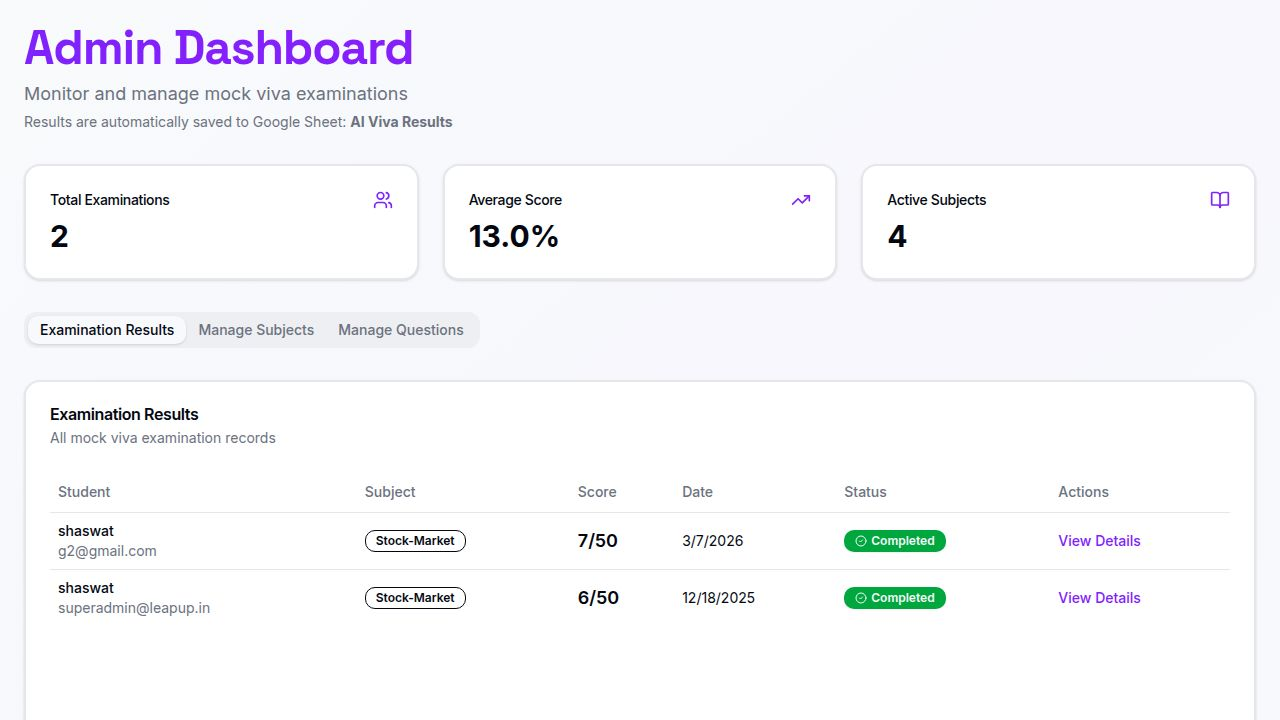
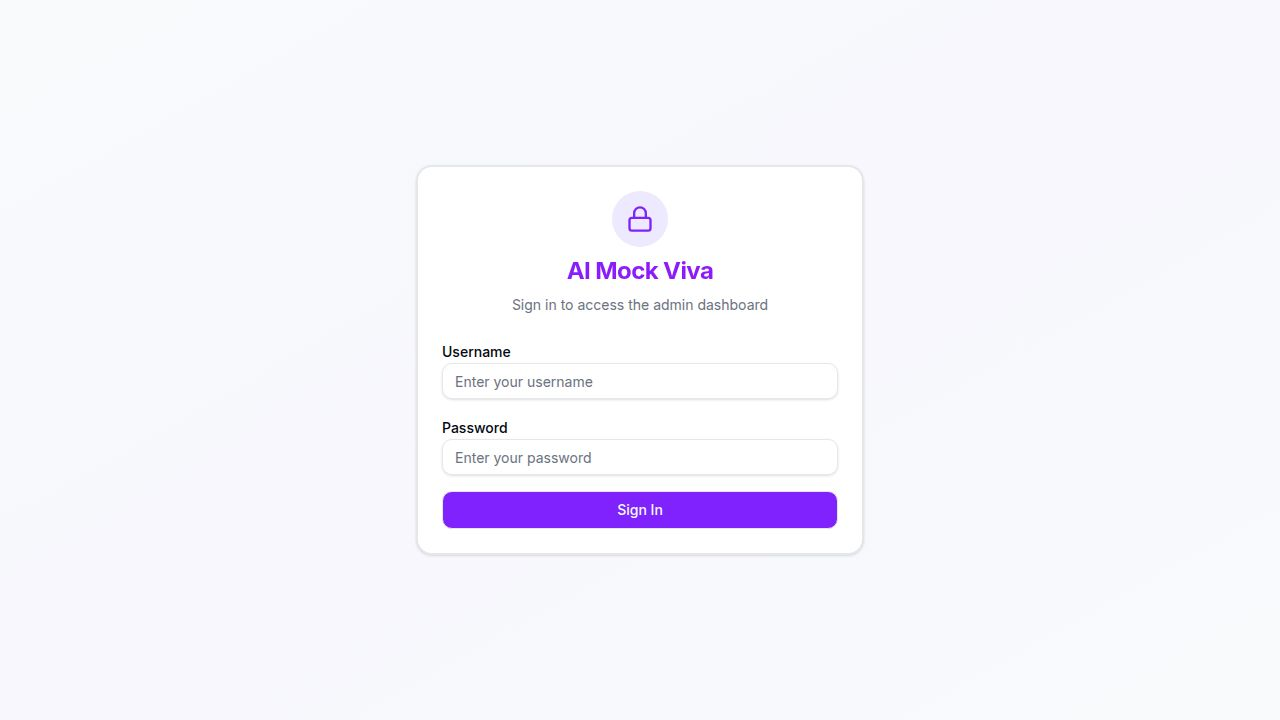
Implement role-based access control for users and administrators
Refactor API endpoints and client-side logic to enforce granular permissions based on user roles, restricting access to subjects and user data.

Replit-Commit-Author: Agent
Replit-Commit-Session-Id: 37b2abbb-5c32-41a0-ae0e-14f6b9f48e0a
Replit-Commit-Checkpoint-Type: full_checkpoint
Replit-Commit-Event-Id: 35af4d70-7967-4167-8101-ff11e4ab3078
Replit-Commit-Screenshot-Url: https://storage.googleapis.com/screenshot-production-us-central1/4ebaabbb-f4e4-4616-a01d-6eb8a4cc59bb/37b2abbb-5c32-41a0-ae0e-14f6b9f48e0a/TShXxQI
Replit-Helium-Checkpoint-Created: true

diff --git a/server/routes.ts b/server/routes.ts
@@ -157,12 +157,15 @@ export async function registerRoutes(
   });
 
   // Get list of available subjects (combines built-in and custom)
+  // Includes createdBy for authenticated users only
   app.get("/api/subjects", async (req, res) => {
     try {
+      const isAuthenticated = !!req.session.userId;
       const builtInSubjects = getAllSubjects().map(s => ({ 
         name: s.name, 
         slug: s.slug,
-        isBuiltIn: true 
+        isBuiltIn: true,
+        ...(isAuthenticated ? { createdBy: null } : {}),
       }));
       
       const customSubjects = await storage.getSubjects();
@@ -170,7 +173,8 @@ export async function registerRoutes(
         id: s.id,
         name: s.name,
         slug: s.slug,
-        isBuiltIn: false
+        isBuiltIn: false,
+        ...(isAuthenticated ? { createdBy: s.createdBy } : {}),
       }));
       
       res.json([...builtInSubjects, ...customFormatted]);
@@ -207,10 +211,13 @@ export async function registerRoutes(
     }
   });
 
-  // Create a new custom subject
-  app.post("/api/admin/subjects", requireAdmin, async (req, res) => {
+  // Create a new custom subject (any authenticated user)
+  app.post("/api/admin/subjects", requireAuth, async (req, res) => {
     try {
-      const validatedData = insertSubjectSchema.parse(req.body);
+      const validatedData = insertSubjectSchema.parse({
+        ...req.body,
+        createdBy: req.session.userId,
+      });
       const subject = await storage.createSubject(validatedData);
       res.json(subject);
     } catch (error: any) {
@@ -222,12 +229,20 @@ export async function registerRoutes(
     }
   });
 
-  // Update a custom subject
-  app.put("/api/admin/subjects/:id", requireAdmin, async (req, res) => {
+  // Update a custom subject (admin: any, user: own only)
+  app.put("/api/admin/subjects/:id", requireAuth, async (req, res) => {
     try {
       const id = parseInt(req.params.id);
       if (isNaN(id)) {
         return res.status(400).json({ error: "Invalid ID" });
+      }
+      const currentUser = await storage.getUser(req.session.userId!);
+      if (currentUser?.role !== "admin") {
+        const existing = await storage.getSubjects();
+        const target = existing.find(s => s.id === id);
+        if (!target || target.createdBy !== req.session.userId) {
+          return res.status(403).json({ error: "You can only update your own subjects" });
+        }
       }
       const subject = await storage.updateSubject(id, req.body);
       if (!subject) {
@@ -240,12 +255,20 @@ export async function registerRoutes(
     }
   });
 
-  // Delete a custom subject
-  app.delete("/api/admin/subjects/:id", requireAdmin, async (req, res) => {
+  // Delete a custom subject (admin: any, user: own only)
+  app.delete("/api/admin/subjects/:id", requireAuth, async (req, res) => {
     try {
       const id = parseInt(req.params.id);
       if (isNaN(id)) {
         return res.status(400).json({ error: "Invalid ID" });
+      }
+      const currentUser = await storage.getUser(req.session.userId!);
+      if (currentUser?.role !== "admin") {
+        const existing = await storage.getSubjects();
+        const target = existing.find(s => s.id === id);
+        if (!target || target.createdBy !== req.session.userId) {
+          return res.status(403).json({ error: "You can only delete your own subjects" });
+        }
       }
       await storage.deleteSubject(id);
       res.json({ success: true });
@@ -255,9 +278,16 @@ export async function registerRoutes(
     }
   });
 
-  // Get manual questions for a subject
-  app.get("/api/admin/subjects/:slug/questions", requireAdmin, async (req, res) => {
+  // Get manual questions for a subject (admin: any, user: own subjects only)
+  app.get("/api/admin/subjects/:slug/questions", requireAuth, async (req, res) => {
     try {
+      const currentUser = await storage.getUser(req.session.userId!);
+      if (currentUser?.role !== "admin") {
+        const subject = await storage.getSubjectBySlug(req.params.slug);
+        if (subject && subject.createdBy !== req.session.userId) {
+          return res.status(403).json({ error: "Access denied" });
+        }
+      }
       const questions = await storage.getManualQuestionsBySubject(req.params.slug);
       res.json(questions);
     } catch (error: any) {
@@ -266,10 +296,17 @@ export async function registerRoutes(
     }
   });
 
-  // Add a manual question
-  app.post("/api/admin/questions", requireAdmin, async (req, res) => {
+  // Add a manual question (admin: any, user: own subjects only)
+  app.post("/api/admin/questions", requireAuth, async (req, res) => {
     try {
       const validatedData = insertManualQuestionSchema.parse(req.body);
+      const currentUser = await storage.getUser(req.session.userId!);
+      if (currentUser?.role !== "admin") {
+        const subject = await storage.getSubjectBySlug(validatedData.subjectSlug);
+        if (subject && subject.createdBy !== req.session.userId) {
+          return res.status(403).json({ error: "You can only add questions to your own subjects" });
+        }
+      }
       const question = await storage.createManualQuestion(validatedData);
       res.json(question);
     } catch (error: any) {
@@ -281,12 +318,25 @@ export async function registerRoutes(
     }
   });
 
-  // Delete a manual question
-  app.delete("/api/admin/questions/:id", requireAdmin, async (req, res) => {
+  // Delete a manual question (admin: any, user: own subjects only)
+  app.delete("/api/admin/questions/:id", requireAuth, async (req, res) => {
     try {
       const id = parseInt(req.params.id);
       if (isNaN(id)) {
         return res.status(400).json({ error: "Invalid ID" });
+      }
+      const currentUser = await storage.getUser(req.session.userId!);
+      if (currentUser?.role !== "admin") {
+        const allSubjectQuestions = await Promise.all(
+          (await storage.getSubjectsByCreator(req.session.userId!)).map(async s => {
+            const qs = await storage.getManualQuestionsBySubject(s.slug);
+            return qs.map(q => q.id);
+          })
+        );
+        const ownedQuestionIds = allSubjectQuestions.flat();
+        if (!ownedQuestionIds.includes(id)) {
+          return res.status(403).json({ error: "You can only delete questions from your own subjects" });
+        }
       }
       await storage.deleteManualQuestion(id);
       res.json({ success: true });
@@ -484,10 +534,17 @@ export async function registerRoutes(
     }
   });
 
-  // Get all viva results (admin only)
+  // Get viva results (admin: all, user: only own subjects)
   app.get("/api/admin/results", requireAuth, async (req, res) => {
     try {
-      const results = await storage.getVivaResults();
+      const currentUser = await storage.getUser(req.session.userId!);
+      if (currentUser?.role === "admin") {
+        const results = await storage.getVivaResults();
+        return res.json(results);
+      }
+      const userSubjects = await storage.getSubjectsByCreator(req.session.userId!);
+      const slugs = userSubjects.map(s => s.slug);
+      const results = await storage.getVivaResultsBySubjectSlugs(slugs);
       res.json(results);
     } catch (error: any) {
       console.error("Error fetching results:", error);
@@ -495,21 +552,25 @@ export async function registerRoutes(
     }
   });
 
-  // Get viva result by ID (admin only)
+  // Get viva result by ID (admin: any, user: own subjects only)
   app.get("/api/admin/results/:id", requireAuth, async (req, res) => {
     try {
       const id = parseInt(req.params.id);
-      
       if (isNaN(id)) {
         return res.status(400).json({ error: "Invalid ID" });
       }
-
       const result = await storage.getVivaResultById(id);
-      
       if (!result) {
         return res.status(404).json({ error: "Result not found" });
       }
-      
+      const currentUser = await storage.getUser(req.session.userId!);
+      if (currentUser?.role !== "admin") {
+        const userSubjects = await storage.getSubjectsByCreator(req.session.userId!);
+        const slugs = userSubjects.map(s => s.slug);
+        if (!slugs.includes(result.subject)) {
+          return res.status(403).json({ error: "Access denied" });
+        }
+      }
       res.json(result);
     } catch (error: any) {
       console.error("Error fetching result:", error);
@@ -517,11 +578,17 @@ export async function registerRoutes(
     }
   });
 
-  // Get results by subject
+  // Get results by subject (admin: any, user: own subjects only)
   app.get("/api/admin/results/subject/:subject", requireAuth, async (req, res) => {
     try {
-      const subject = req.params.subject;
-      const results = await storage.getVivaResultsBySubject(subject);
+      const currentUser = await storage.getUser(req.session.userId!);
+      if (currentUser?.role !== "admin") {
+        const subject = await storage.getSubjectBySlug(req.params.subject);
+        if (subject && subject.createdBy !== req.session.userId) {
+          return res.status(403).json({ error: "Access denied" });
+        }
+      }
+      const results = await storage.getVivaResultsBySubject(req.params.subject);
       res.json(results);
     } catch (error: any) {
       console.error("Error fetching results by subject:", error);

diff --git a/client/src/pages/admin.tsx b/client/src/pages/admin.tsx
@@ -37,6 +37,7 @@ type Subject = {
   name: string;
   slug: string;
   isBuiltIn: boolean;
+  createdBy?: string | null;
 };
 
 type ManualQuestion = {
@@ -79,7 +80,7 @@ export default function AdminPanel({ user, onLogout }: AdminPanelProps) {
     },
   });
 
-  const { data: subjects } = useQuery<Subject[]>({
+  const { data: allSubjects } = useQuery<Subject[]>({
     queryKey: ["subjects"],
     queryFn: async () => {
       const response = await fetch("/api/subjects");
@@ -87,6 +88,11 @@ export default function AdminPanel({ user, onLogout }: AdminPanelProps) {
       return response.json();
     },
   });
+
+  const isAdmin = user.role === "admin";
+  const subjects = isAdmin
+    ? allSubjects
+    : allSubjects?.filter(s => s.createdBy === user.id || s.isBuiltIn);
 
   const { data: questions } = useQuery<ManualQuestion[]>({
     queryKey: ["questions", selectedSubjectSlug],
@@ -264,9 +270,11 @@ export default function AdminPanel({ user, onLogout }: AdminPanelProps) {
         <div className="mb-8 flex items-start justify-between">
           <div>
             <h1 className="text-5xl font-bold mb-2 bg-gradient-to-r from-violet-600 to-purple-600 bg-clip-text text-transparent" data-testid="heading-admin">
-              Admin Dashboard
+              {isAdmin ? "Admin Dashboard" : "Dashboard"}
             </h1>
-            <p className="text-muted-foreground text-lg">Monitor and manage mock viva examinations</p>
+            <p className="text-muted-foreground text-lg">
+              {isAdmin ? "Monitor and manage mock viva examinations" : "Manage your subjects and view examination results"}
+            </p>
             <p className="text-sm text-muted-foreground mt-1">
               Results are automatically saved to Google Sheet: <strong>AI Viva Results</strong>
             </p>
@@ -438,7 +446,7 @@ export default function AdminPanel({ user, onLogout }: AdminPanelProps) {
                           <ExternalLink className="h-4 w-4 mr-1" />
                           Open
                         </Button>
-                        {!subject.isBuiltIn && subject.id && (
+                        {!subject.isBuiltIn && subject.id && (isAdmin || subject.createdBy === user.id) && (
                           <Button
                             variant="destructive"
                             size="sm"
@@ -471,7 +479,7 @@ export default function AdminPanel({ user, onLogout }: AdminPanelProps) {
                     data-testid="select-subject"
                   >
                     <option value="">Choose a subject...</option>
-                    {subjects?.map((s) => (
+                    {subjects?.filter(s => isAdmin || s.createdBy === user.id).map((s) => (
                       <option key={s.slug} value={s.slug}>{s.name}</option>
                     ))}
                   </select>

diff --git a/server/storage.ts b/server/storage.ts
@@ -7,7 +7,7 @@ import {
 } from "@shared/schema";
 import { randomUUID } from "crypto";
 import { db } from "../db";
-import { eq, desc } from "drizzle-orm";
+import { eq, desc, inArray } from "drizzle-orm";
 
 export interface IStorage {
   getUser(id: string): Promise<User | undefined>;
@@ -26,9 +26,11 @@ export interface IStorage {
 
   createSubject(subject: InsertSubject): Promise<Subject>;
   getSubjects(): Promise<Subject[]>;
+  getSubjectsByCreator(userId: string): Promise<Subject[]>;
   getSubjectBySlug(slug: string): Promise<Subject | undefined>;
   updateSubject(id: number, subject: Partial<InsertSubject>): Promise<Subject | undefined>;
   deleteSubject(id: number): Promise<void>;
+  getVivaResultsBySubjectSlugs(slugs: string[]): Promise<VivaResult[]>;
 
   createManualQuestion(question: InsertManualQuestion): Promise<ManualQuestion>;
   getManualQuestionsBySubject(subjectSlug: string): Promise<ManualQuestion[]>;
@@ -96,6 +98,15 @@ export class DatabaseStorage implements IStorage {
 
   async getSubjects(): Promise<Subject[]> {
     return await db.select().from(subjects).orderBy(desc(subjects.createdAt));
+  }
+
+  async getSubjectsByCreator(userId: string): Promise<Subject[]> {
+    return await db.select().from(subjects).where(eq(subjects.createdBy, userId)).orderBy(desc(subjects.createdAt));
+  }
+
+  async getVivaResultsBySubjectSlugs(slugs: string[]): Promise<VivaResult[]> {
+    if (slugs.length === 0) return [];
+    return await db.select().from(vivaResults).where(inArray(vivaResults.subject, slugs)).orderBy(desc(vivaResults.timestamp));
   }
 
   async getSubjectBySlug(slug: string): Promise<Subject | undefined> {

diff --git a/shared/schema.ts b/shared/schema.ts
@@ -55,6 +55,7 @@ export const subjects = pgTable("subjects", {
     title: string;
     topics: string[];
   }>>(),
+  createdBy: varchar("created_by"),
   createdAt: timestamp("created_at").notNull().defaultNow(),
 });
 

diff --git a/replit.md b/replit.md
@@ -46,12 +46,15 @@ Database tables:
 - `manualQuestions` - Manually added exam questions per subject
 - `session` - Express session store (auto-created by connect-pg-simple)
 
-### Authentication
+### Authentication & Authorization
 - Session-based authentication using `express-session` with `connect-pg-simple` for PostgreSQL session storage
 - Password hashing using Node.js `crypto.scryptSync` with random salt
 - Default admin user seeded on startup (username: `admin`, password: `admin123`)
-- Admin users can create/delete other users and reset passwords
-- All `/api/admin/*` routes protected with `requireAuth` middleware
+- Two roles: `admin` (full access) and `user` (scoped access)
+- **Admin role**: Can create/delete/manage all users, view all subjects, results, and questions
+- **User role**: Can only create/view/manage their own subjects and related results/questions; cannot see other users or their data
+- Subjects have a `createdBy` field linking to the user who created them
+- All `/api/admin/*` routes protected with `requireAuth` middleware; user management routes use `requireAdmin`
 - Student-facing viva routes (`/:subject`) do not require authentication
 
 ### AI Integration
